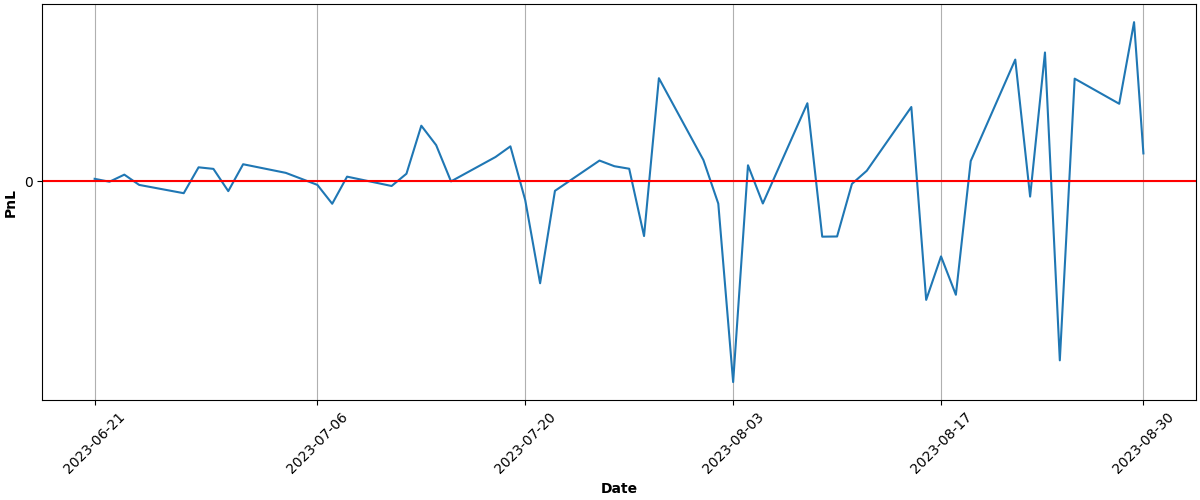
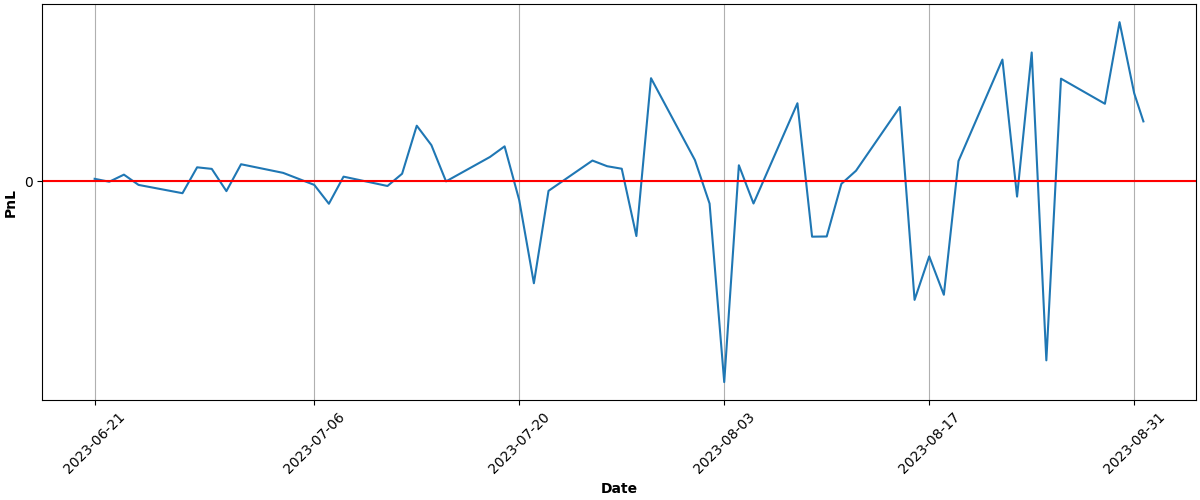
Automated Buy At Thu Aug 31 15:04:27 UTC 2023 Run ID 6039095299

diff --git a/README.md b/README.md
@@ -68,9 +68,9 @@ Results
 
 | Asset | Average Price | Current Price | ROI | 📈 |
 | --- | --- | --- | --- | --- |
-| FNGU | $182.200949383 | $180.3462 | -1.02% | &#128308;&#128546; |
-| SVIX | $27.640485714 | $29.7 | 7.45% | &#128994;&#128515; |
-| **Total** |  |  | **3.45%** | &#128994;&#128518; |
+| FNGU | $182.285231534 | $186.7 | 2.42% | &#128994;&#128515; |
+| SVIX | $27.785909091 | $30.8204 | 10.92% | &#128994;&#128515; |
+| **Total** |  |  | **6.97%** | &#128994;&#128518; |
 
 ### PnL over time (calculations may not be accurate):
 
@@ -81,6 +81,6 @@ Results
 ---
 
 
-Updated at 2023-08-30 15:05:16
+Updated at 2023-08-31 15:04:54
 
 
